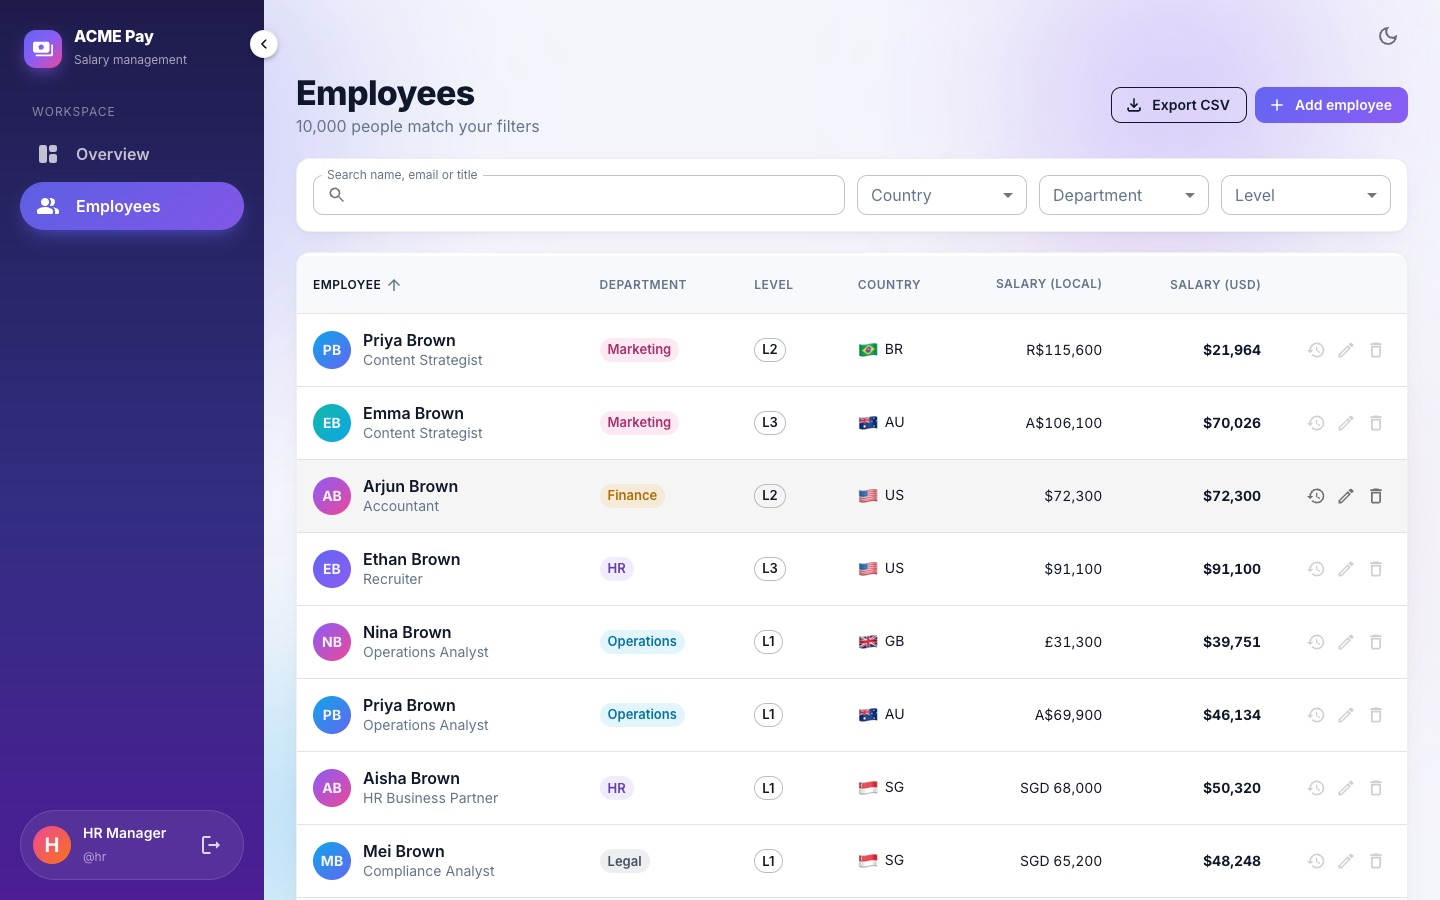
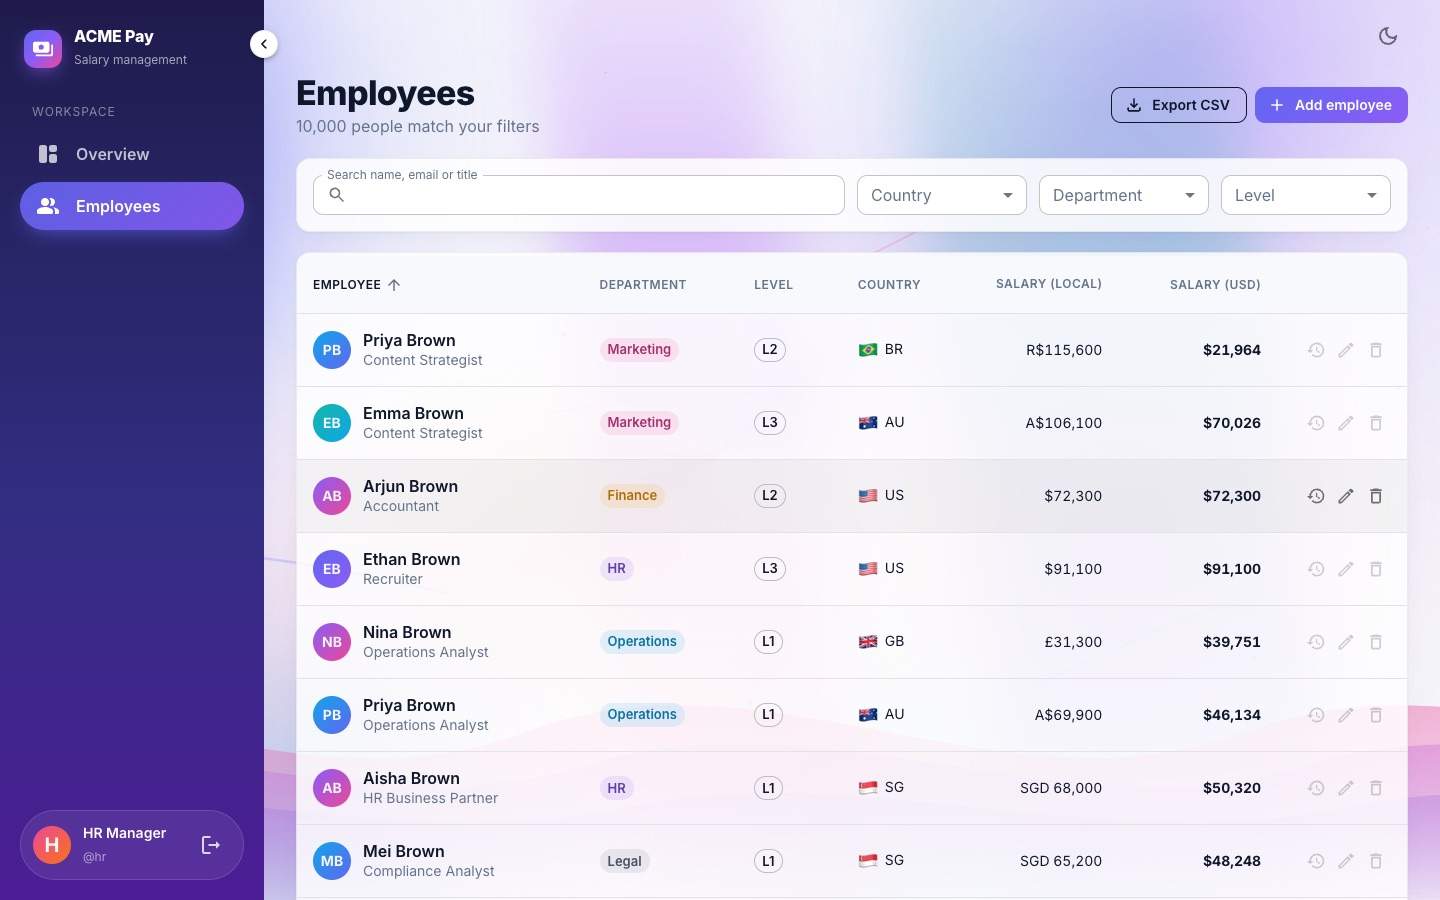
feat(ui): animated background inside the app (theme-aware layers, translucent cards); refresh screenshots

diff --git a/frontend/src/components/AuroraBackground.tsx b/frontend/src/components/AuroraBackground.tsx
@@ -42,7 +42,7 @@ const STREAKS = [
 export default function AuroraBackground({ variant, mode = 'light' }: Props) {
   const login = variant === 'login'
   const dark = login || mode === 'dark'
-  const alpha = login ? 0.78 : dark ? 0.4 : 0.36
+  const alpha = login ? 0.78 : dark ? 0.45 : 0.42
   const root = useRef<HTMLDivElement>(null)
 
   // Parallax: the colour layer follows the cursor a few pixels. rAF-throttled, and skipped for reduced motion.
@@ -74,6 +74,10 @@ export default function AuroraBackground({ variant, mode = 'light' }: Props) {
     <Box ref={root} aria-hidden sx={{
       position: login ? 'absolute' : 'fixed', inset: 0, overflow: 'hidden', pointerEvents: 'none', zIndex: 0,
       background: login ? 'linear-gradient(135deg, #0f0c29 0%, #1e1b4b 45%, #24123f 100%)' : dark ? '#0b0f1e' : '#f4f5fb',
+      // Light pages need tinted (not white) sparkles, and curtains that do not rely on the "screen" blend.
+      '--pc': dark ? 'rgba(255,255,255,.85)' : 'rgba(99,102,241,.6)',
+      '--ps': dark ? 'rgba(255,255,255,.95)' : 'rgba(99,102,241,.75)',
+      '--blend': dark ? 'screen' : 'normal',
     }}>
       <div className="aurora-parallax">
         {blobs.map((b, i) => (
@@ -81,43 +85,44 @@ export default function AuroraBackground({ variant, mode = 'light' }: Props) {
             sx={{ width: b.size, height: b.size, top: b.top, left: b.left, background: `radial-gradient(circle at 50% 50%, ${b.color}, transparent 68%)` }} />
         ))}
       </div>
-      {login && (
-        <>
-          {CURTAINS.map((c, i) => (
-            <div key={i} className="aurora-curtain" style={{ left: c.left, width: c.width, animationDuration: `${c.d}s`, animationDelay: `${c.delay}s`, ['--c' as string]: c.c, ['--c2' as string]: c.c2 }} />
+      {/* Motion layers. Full strength on the login screen; toned down inside the app so data stays easy to read. */}
+      <div style={{ position: 'absolute', inset: 0, opacity: login ? 1 : dark ? 0.85 : 0.8 }}>
+        {CURTAINS.slice(0, login ? 4 : 3).map((c, i) => (
+          <div key={i} className="aurora-curtain" style={{ left: c.left, width: c.width, animationDuration: `${c.d}s`, animationDelay: `${c.delay}s`, ['--c' as string]: c.c, ['--c2' as string]: c.c2 }} />
+        ))}
+        <div className="aurora-beam" />
+        <svg className="aurora-flow" viewBox="0 0 1440 900" preserveAspectRatio="none">
+          {FLOWS.map((f, i) => (
+            <path key={i} d={f.d} stroke={f.c} strokeWidth={f.w} opacity={login ? 0.5 : 0.4} style={{ ['--d' as string]: `${f.dur}s`, animationDelay: `${f.delay}s` }} />
           ))}
-          <div className="aurora-beam" />
-          <svg className="aurora-flow" viewBox="0 0 1440 900" preserveAspectRatio="none">
-            {FLOWS.map((f, i) => (
-              <path key={i} d={f.d} stroke={f.c} strokeWidth={f.w} opacity={0.5} style={{ ['--d' as string]: `${f.dur}s`, animationDelay: `${f.delay}s` }} />
-            ))}
-          </svg>
+        </svg>
+        {login && (
           <Box className="aurora-glow" sx={{ position: 'absolute', inset: 0, backgroundImage: 'linear-gradient(rgba(255,255,255,.045) 1px, transparent 1px), linear-gradient(90deg, rgba(255,255,255,.045) 1px, transparent 1px)', backgroundSize: '56px 56px', maskImage: 'radial-gradient(ellipse at 50% 40%, #000 25%, transparent 75%)' }} />
-          {TWINKLES.map((t, i) => (
-            <span key={i} className="aurora-twinkle" style={{ left: `${t.left}%`, top: `${t.top}%`, width: t.size, height: t.size, animationDelay: `${t.delay}s`, animationDuration: `${t.duration}s` }} />
-          ))}
-          <div className="aurora-waves">
-            <svg width="0" height="0" style={{ position: 'absolute' }}>
-              <defs>
-                <linearGradient id="wv1" x1="0" y1="0" x2="0" y2="1"><stop offset="0" stopColor="#6366f1" stopOpacity=".38" /><stop offset="1" stopColor="#6366f1" stopOpacity=".05" /></linearGradient>
-                <linearGradient id="wv2" x1="0" y1="0" x2="0" y2="1"><stop offset="0" stopColor="#a855f7" stopOpacity=".42" /><stop offset="1" stopColor="#a855f7" stopOpacity=".06" /></linearGradient>
-                <linearGradient id="wv3" x1="0" y1="0" x2="0" y2="1"><stop offset="0" stopColor="#ec4899" stopOpacity=".5" /><stop offset="1" stopColor="#ec4899" stopOpacity=".08" /></linearGradient>
-              </defs>
+        )}
+        {TWINKLES.slice(0, login ? TWINKLES.length : 22).map((t, i) => (
+          <span key={i} className="aurora-twinkle" style={{ left: `${t.left}%`, top: `${t.top}%`, width: t.size, height: t.size, animationDelay: `${t.delay}s`, animationDuration: `${t.duration}s` }} />
+        ))}
+        <div className="aurora-waves">
+          <svg width="0" height="0" style={{ position: 'absolute' }}>
+            <defs>
+              <linearGradient id="wv1" x1="0" y1="0" x2="0" y2="1"><stop offset="0" stopColor="#6366f1" stopOpacity=".38" /><stop offset="1" stopColor="#6366f1" stopOpacity=".05" /></linearGradient>
+              <linearGradient id="wv2" x1="0" y1="0" x2="0" y2="1"><stop offset="0" stopColor="#a855f7" stopOpacity=".42" /><stop offset="1" stopColor="#a855f7" stopOpacity=".06" /></linearGradient>
+              <linearGradient id="wv3" x1="0" y1="0" x2="0" y2="1"><stop offset="0" stopColor="#ec4899" stopOpacity=".5" /><stop offset="1" stopColor="#ec4899" stopOpacity=".08" /></linearGradient>
+            </defs>
+          </svg>
+          {WAVES.map((w, i) => (
+            <svg key={i} className="aurora-wave" viewBox="0 0 2880 200" preserveAspectRatio="none" style={{ ['--d' as string]: `${w.d}s`, height: `${w.top * 100}%`, opacity: 0.95 }}>
+              <path d={WAVE} fill={w.fill} />
             </svg>
-            {WAVES.map((w, i) => (
-              <svg key={i} className="aurora-wave" viewBox="0 0 2880 200" preserveAspectRatio="none" style={{ ['--d' as string]: `${w.d}s`, height: `${w.top * 100}%`, opacity: 0.95 }}>
-                <path d={WAVE} fill={w.fill} />
-              </svg>
-            ))}
-          </div>
-          {STREAKS.map((s, i) => (
-            <span key={i} className="aurora-streak" style={{ top: s.top, left: s.left, animationDelay: `${s.delay}s` }} />
           ))}
-          {PARTICLES.map((p, i) => (
-            <span key={i} className="aurora-particle" style={{ left: `${p.left}%`, width: p.size, height: p.size, animationDuration: `${p.duration}s`, animationDelay: `${p.delay}s` }} />
-          ))}
-        </>
-      )}
+        </div>
+        {STREAKS.map((s, i) => (
+          <span key={i} className="aurora-streak" style={{ top: s.top, left: s.left, animationDelay: `${s.delay}s` }} />
+        ))}
+        {PARTICLES.slice(0, login ? PARTICLES.length : 26).map((p, i) => (
+          <span key={i} className="aurora-particle" style={{ left: `${p.left}%`, width: p.size, height: p.size, animationDuration: `${p.duration}s`, animationDelay: `${p.delay}s` }} />
+        ))}
+      </div>
     </Box>
   )
 }

diff --git a/frontend/src/index.css b/frontend/src/index.css
@@ -15,7 +15,7 @@ body { margin: 0; -webkit-font-smoothing: antialiased; }
 .aurora-a { animation: drift-a 22s ease-in-out infinite alternate; }
 .aurora-b { animation: drift-b 27s ease-in-out infinite alternate; }
 .aurora-c { animation: drift-c 31s ease-in-out infinite alternate; }
-.aurora-particle { position: absolute; bottom: -12px; border-radius: 50%; background: rgba(255,255,255,.85); animation: rise linear infinite; }
+.aurora-particle { position: absolute; bottom: -12px; border-radius: 50%; background: var(--pc, rgba(255,255,255,.85)); animation: rise linear infinite; }
 .aurora-glow { animation: shimmer 6s ease-in-out infinite; }
 @media (prefers-reduced-motion: reduce) {
   .aurora-blob, .aurora-particle, .aurora-glow { animation: none !important; }
@@ -29,15 +29,15 @@ body { margin: 0; -webkit-font-smoothing: antialiased; }
 .aurora-parallax { position: absolute; inset: -6%; transition: transform .6s cubic-bezier(.2,.7,.2,1); transform: translate3d(calc(var(--mx, 0) * 26px), calc(var(--my, 0) * 20px), 0); }
 .aurora-beam { position: absolute; left: 50%; top: 50%; width: 140vmax; height: 140vmax; margin: -70vmax 0 0 -70vmax; border-radius: 50%; animation: spin-slow 70s linear infinite;
   background: conic-gradient(from 0deg, transparent 0deg, rgba(139,92,246,.22) 40deg, transparent 90deg, transparent 180deg, rgba(236,72,153,.18) 230deg, transparent 280deg); }
-.aurora-twinkle { position: absolute; border-radius: 50%; background: #fff; animation: twinkle 3.5s ease-in-out infinite; }
-.aurora-streak { position: absolute; height: 2px; width: 140px; border-radius: 2px; background: linear-gradient(90deg, rgba(255,255,255,0), rgba(255,255,255,.95)); animation: streak 9s ease-in infinite; }
+.aurora-twinkle { position: absolute; border-radius: 50%; background: var(--pc, #fff); animation: twinkle 3.5s ease-in-out infinite; }
+.aurora-streak { position: absolute; height: 2px; width: 140px; border-radius: 2px; background: linear-gradient(90deg, transparent, var(--ps, rgba(255,255,255,.95))); animation: streak 9s ease-in infinite; }
 .aurora-b { animation-duration: 17s; } .aurora-a { animation-duration: 15s; } .aurora-c { animation-duration: 20s; }
 
 /* Round 3: flowing motion instead of geometric shapes */
 @keyframes sway { 0% { transform: translateX(-6vw) skewX(-10deg) scaleY(1); opacity: .55 } 50% { transform: translateX(7vw) skewX(9deg) scaleY(1.12); opacity: .95 } 100% { transform: translateX(-3vw) skewX(-6deg) scaleY(.95); opacity: .6 } }
 @keyframes wave-move { from { transform: translate3d(0,0,0) } to { transform: translate3d(-50%,0,0) } }
 @keyframes flow { from { stroke-dashoffset: 1600 } to { stroke-dashoffset: 0 } }
-.aurora-curtain { position: absolute; top: -20vh; height: 130vh; filter: blur(34px); mix-blend-mode: screen; transform-origin: 50% 0; animation: sway 13s ease-in-out infinite alternate;
+.aurora-curtain { position: absolute; top: -20vh; height: 130vh; filter: blur(34px); mix-blend-mode: var(--blend, screen); transform-origin: 50% 0; animation: sway 13s ease-in-out infinite alternate;
   background: linear-gradient(180deg, transparent 0%, var(--c) 35%, var(--c2) 65%, transparent 100%); }
 .aurora-waves { position: absolute; left: 0; right: 0; bottom: 0; height: 34vh; }
 .aurora-wave { position: absolute; left: 0; bottom: 0; width: 200%; height: 100%; animation: wave-move var(--d, 20s) linear infinite; will-change: transform; }

diff --git a/frontend/src/theme.ts b/frontend/src/theme.ts
@@ -46,7 +46,7 @@ export function createAppTheme(mode: Mode) {
       MuiPaper: {
         styleOverrides: {
           root: { backgroundImage: 'none' },
-          outlined: { borderColor: dark ? 'rgba(148,163,184,0.16)' : 'rgba(15,23,42,0.07)', boxShadow: dark ? 'none' : '0 1px 2px rgba(15,23,42,0.04), 0 8px 24px -12px rgba(15,23,42,0.10)' },
+          outlined: { backgroundColor: dark ? 'rgba(19,26,46,.8)' : 'rgba(255,255,255,.84)', borderColor: dark ? 'rgba(148,163,184,0.16)' : 'rgba(15,23,42,0.07)', boxShadow: dark ? 'none' : '0 1px 2px rgba(15,23,42,0.04), 0 8px 24px -12px rgba(15,23,42,0.10)' },
         },
       },
       MuiButton: {

diff --git a/docs/ai-log.md b/docs/ai-log.md
@@ -91,3 +91,10 @@ Tool: Claude Code (agentic CLI). This log records the prompts and the decisions 
 **Result:** backend tests 70 to 88, frontend unit tests 20 to 24, e2e 14 (re-run on a restarted server to prove the new settings work end to end), lint clean.
 
 **Deliberately not changed (flagged instead):** token expiry, a shared rate-limit cache, disabling `/admin/`, HSTS subdomains/preload. Each is listed under "Known limitations" in the README with the reason.
+
+## 9. Animated background inside the app
+**Prompt:** "Add the animation in the background also after we login."
+
+**Decisions:** reuse the same background component for the app instead of a second implementation, with the login screen at full strength and the app toned down so charts and tables stay readable. Two things needed adapting because the login background is dark: particles, streaks and curtains would be invisible on the pale light theme, so they take theme-aware colours (indigo on light, white on dark) and the curtains switch off the `screen` blend on light. Cards became slightly translucent (no backdrop blur, since the colour blobs are already soft, which keeps it cheap) so the motion shows through them and not only in the gaps between them.
+
+**Verification:** measured every layer moving inside the app, 60 fps on the dashboard, particle colour and blend mode per theme, every animation resolving to `none` under reduced motion, then screenshots in both themes to check the data stays legible. README screenshots retaken to match.
